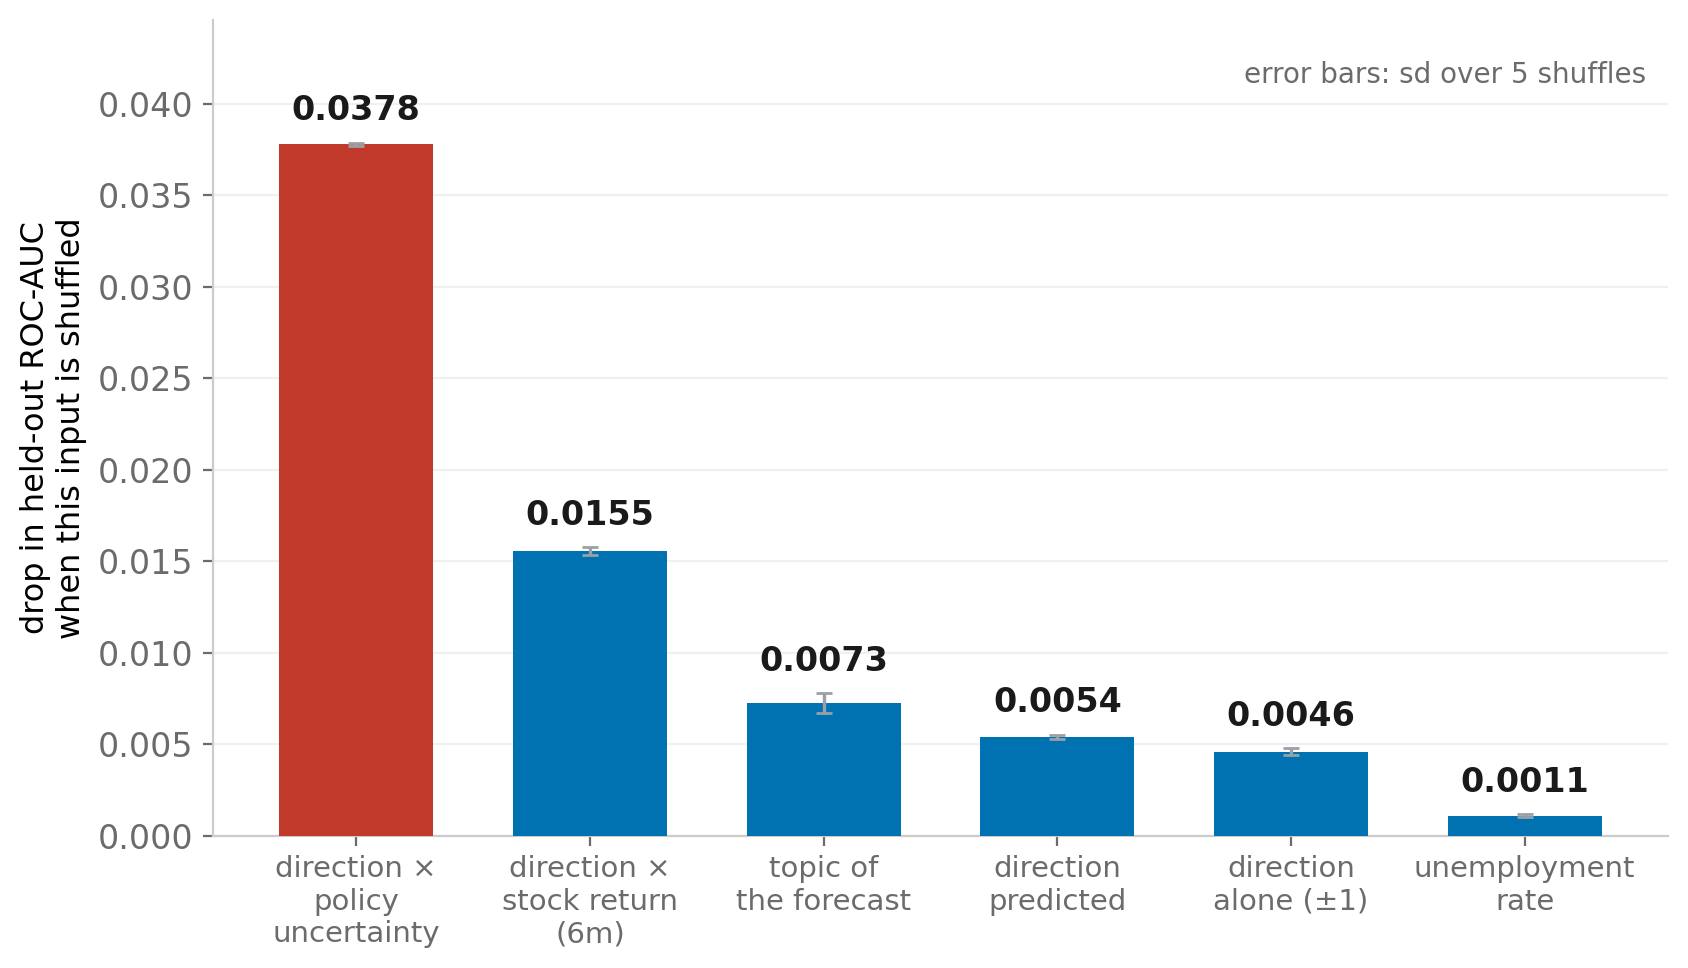
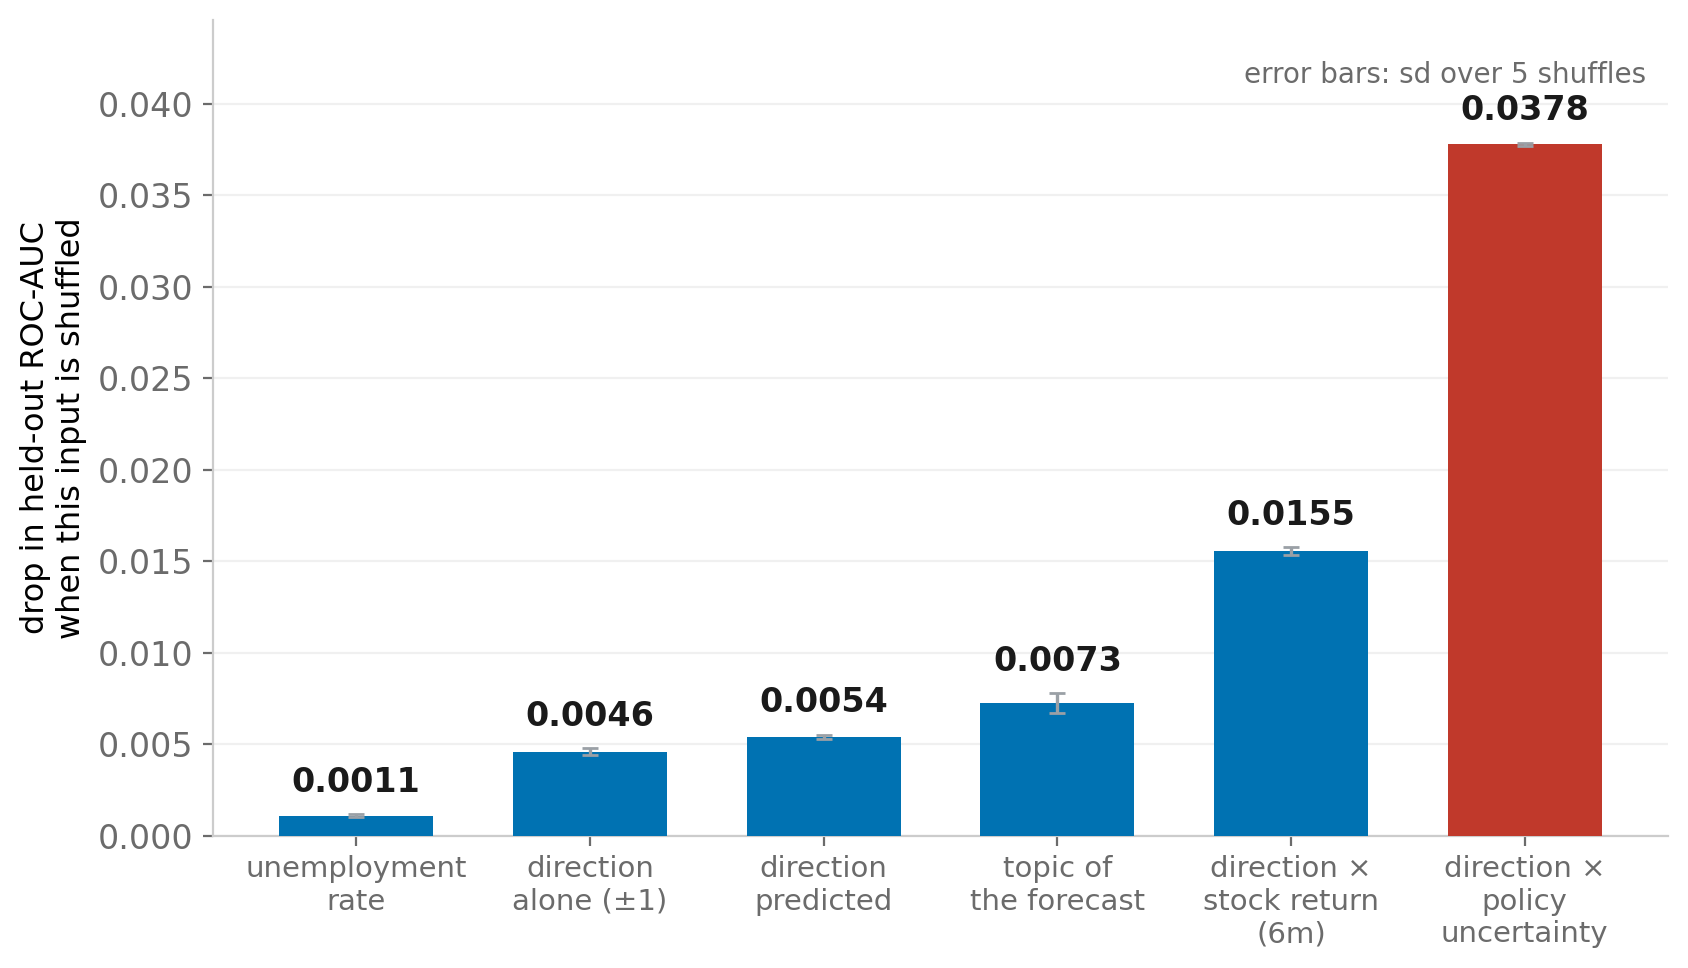
a

diff --git a/src/make_feature_importance_figure.py b/src/make_feature_importance_figure.py
@@ -51,12 +51,13 @@ LABEL = {
 def draw(top_n):
     d = pd.read_csv(SRC)
     d = d[d["drop"] > 0].sort_values("drop", ascending=False).head(top_n)
+    d = d.iloc[::-1]                       # smallest at left, largest at right
     names = [LABEL.get(f, f.replace("_", "\n")) for f in d["feature"]]
     vals, sds = d["drop"].values, d["sd"].values
 
     fig, ax = plt.subplots(figsize=(8.6, 5.0))
     x = range(len(vals))
-    colors = [RED] + [BLUE] * (len(vals) - 1)
+    colors = [BLUE] * (len(vals) - 1) + [RED]
     ax.bar(x, vals, width=.66, color=colors, zorder=3)
     ax.errorbar(x, vals, yerr=sds, fmt="none", ecolor=GRAY, elinewidth=1.2,
                 capsize=3, zorder=4)
